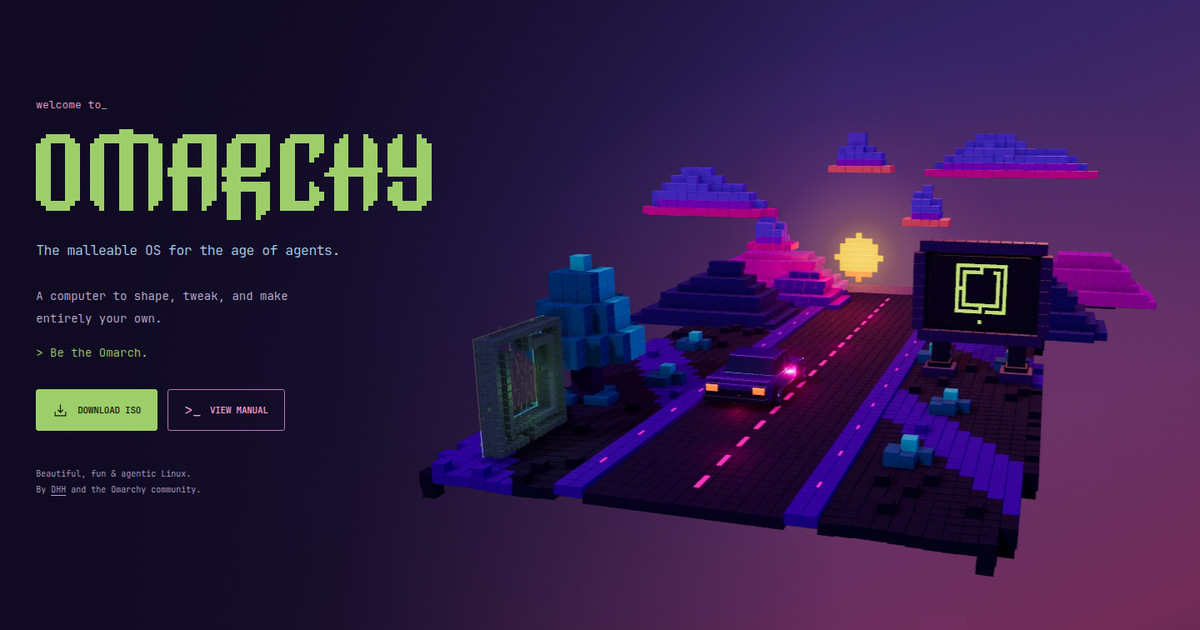
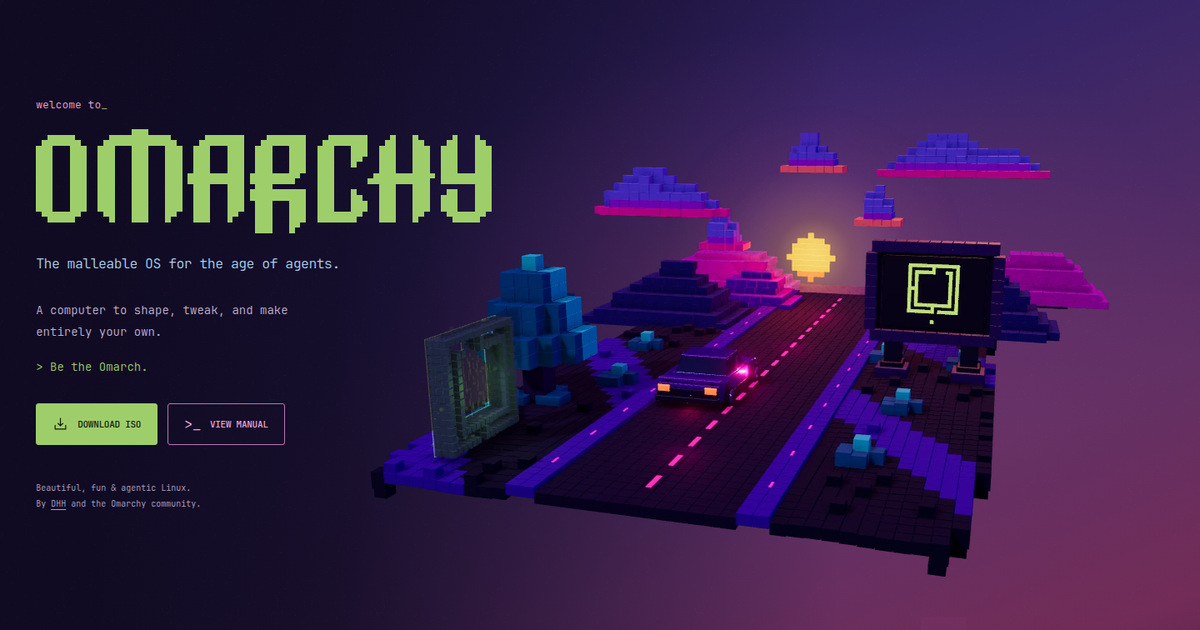
Center the desktop hero and integrate a compact mobile composition

Changed region(s): [[0.3083, 0.2111, 0.9867, 0.9349], [0.0308, 0.181, 0.4317, 0.8143], [0.5242, 0.754, 0.555, 0.7841]]

diff --git a/src/styles/stage-one.css b/src/styles/stage-one.css
@@ -26,6 +26,7 @@ img { display: block; max-width: 100%; }
   --brand-saturation: calc(.12 + var(--world-mix) * .88);
   --media-saturation: calc(.04 + var(--world-mix) * .86);
   --gutter: clamp(24px, 3vw, 60px);
+  --content-width: 1560px;
   --background-night: var(--page-bg);
   --paper: var(--text);
   position: relative;
@@ -53,9 +54,8 @@ img { display: block; max-width: 100%; }
 .landing-hero { position: relative; min-height: 800px; height: min(100svh, 1040px); isolation: isolate; }
 
 .landing-header { position: relative; z-index: 4; min-height: 82px; margin: 0 var(--gutter); display: flex; justify-content: space-between; align-items: center; gap: 24px; }
-.landing-brand { display: inline-flex; align-items: end; gap: 13px; flex-shrink: 0; color: var(--green) !important; }
-.landing-brand img { width: 130px; height: auto; }
-.landing-brand > span { font-size: 16px; line-height: 1; }
+.landing-brand { display: inline-flex; align-items: center; justify-content: center; min-width: 44px; min-height: 44px; flex-shrink: 0; color: var(--green) !important; }
+.landing-brand img { width: 44px; height: auto; }
 .landing-nav { display: flex; align-items: center; gap: clamp(22px, 2.6vw, 44px); }
 .landing-nav a { display: inline-flex; align-items: center; gap: 9px; font-size: 11px; font-weight: 500; letter-spacing: .025em; text-transform: uppercase; color: var(--blue); transition: color 180ms ease; min-height: 44px; }
 .landing-nav a:hover { color: var(--green); }
@@ -63,7 +63,8 @@ img { display: block; max-width: 100%; }
 .landing-nav .landing-nav-download { border: 1px solid color-mix(in srgb, var(--green) 55%, transparent); padding: 0 18px; color: var(--green); gap: 12px; border-radius: 3px; }
 .landing-nav-download:hover { background: color-mix(in srgb, var(--green) 8%, transparent); }
 .landing-main { position: relative; z-index: 2; margin: 0 var(--gutter); padding-top: clamp(78px, 12vh, 134px); pointer-events: none; }
-.landing-copy { width: min(33vw, 500px); pointer-events: auto; opacity: 1; }
+.landing-copy { width: min(38vw, 600px); pointer-events: none; opacity: 1; }
+.landing-copy a { pointer-events: auto; }
 .landing[data-cinematic='true'] .landing-copy { opacity: var(--hero-reveal, 0); }
 .hero-eyebrow { margin: 0 0 19px; color: var(--accent); font-size: 13px; line-height: 1.5; }
 .hero-eyebrow span { color: var(--green); }
@@ -82,7 +83,7 @@ img { display: block; max-width: 100%; }
 .button-secondary > span { font-size: 17px; font-weight: 300; }
 .hero-colophon { margin: 42px 0 0; font-size: 10px; line-height: 1.9; color: var(--quiet); }
 .hero-colophon a { text-decoration: underline; text-underline-offset: 3px; }
-.world-layer { --scene-inset-x: 34; --scene-inset-top: 94; --scene-inset-bottom: 74; position: absolute; z-index: 1; top: 94px; bottom: 74px; left: 34%; right: 0; overflow: hidden; }
+.world-layer { --scene-inset-top: 94; --scene-inset-bottom: 74; position: absolute; z-index: 1; top: 94px; bottom: 74px; left: 26%; right: 0; overflow: hidden; }
 .world-host, .world-canvas { position: absolute; inset: 0; width: 100%; height: 100%; }
 .world-host { pointer-events: none; }
 .hero-baseline { position: absolute; z-index: 3; bottom: 0; left: var(--gutter); right: var(--gutter); height: 68px; display: flex; justify-content: space-between; align-items: center; gap: 24px; border-top: 1px solid var(--line); }
@@ -97,13 +98,13 @@ img { display: block; max-width: 100%; }
 .landing[data-world='quattro'] .world-name--quattro { display: inline; }
 .landing-directory, .landing-watch, .landing-footer { position: relative; padding-inline: var(--gutter); }
 .landing-directory { padding-top: 100px; padding-bottom: 95px; background: transparent; }
-.section-heading { max-width: 1560px; margin-inline: auto; display: grid; grid-template-columns: 1fr 1fr; align-items: end; gap: 0 40px; margin-bottom: 62px; }
+.section-heading { max-width: var(--content-width); margin-inline: auto; display: grid; grid-template-columns: 1fr 1fr; align-items: end; gap: 0 40px; margin-bottom: 62px; }
 .section-kicker { grid-column: 1 / -1; margin: 0 0 30px; color: var(--accent); text-transform: uppercase; letter-spacing: .07em; font-size: 11px; font-weight: 500; }
 .section-kicker > span { margin-right: 14px; color: var(--quiet); }
 .section-heading h2 { margin: 0; font-size: clamp(34px, 3.6vw, 64px); line-height: 1.14; letter-spacing: -.065em; font-weight: 300; }
 .section-heading h2 > span { color: var(--accent); }
 .section-intro { margin: 0 0 5px; justify-self: end; color: var(--muted); font-size: 13px; line-height: 1.9; }
-.directory-grid { max-width: 1560px; margin-inline: auto; display: grid; grid-template-columns: repeat(3, minmax(0, 1fr)); border-top: 1px solid var(--line); }
+.directory-grid { max-width: var(--content-width); margin-inline: auto; display: grid; grid-template-columns: repeat(3, minmax(0, 1fr)); border-top: 1px solid var(--line); }
 .directory-card { min-width: 0; padding: 25px 32px 0; border-right: 1px solid var(--line); }
 .directory-card:first-child { padding-left: 0; }
 .directory-card:last-child { border-right: 0; padding-right: 0; }
@@ -117,7 +118,7 @@ img { display: block; max-width: 100%; }
 .directory-links a > span { color: var(--quiet); transition: transform 160ms ease, color 160ms ease; }
 .directory-links a:hover { color: var(--green); }
 .directory-links a:hover > span { transform: translate(2px, -2px); color: var(--green); }
-.foundation-dispatch { max-width: 1560px; margin: 72px auto 0; padding: 26px 28px; display: flex; align-items: center; gap: 26px; border: 1px solid color-mix(in srgb, var(--line) 65%, transparent); background: color-mix(in srgb, var(--surface) 38%, transparent); transition: border-color 180ms ease; }
+.foundation-dispatch { max-width: var(--content-width); margin: 72px auto 0; padding: 26px 28px; display: flex; align-items: center; gap: 26px; border: 1px solid color-mix(in srgb, var(--line) 65%, transparent); background: color-mix(in srgb, var(--surface) 38%, transparent); transition: border-color 180ms ease; }
 .foundation-dispatch:hover { border-color: var(--accent-soft); }
 .dispatch-mark { display: grid; place-items: center; flex-shrink: 0; width: 50px; height: 50px; }
 .dispatch-mark img { width: 37px; height: 37px; }
@@ -127,7 +128,7 @@ img { display: block; max-width: 100%; }
 .dispatch-action { margin-left: auto; flex-shrink: 0; font-size: 11px; color: var(--muted); }
 .dispatch-action > span { color: var(--accent); margin-left: 20px; font-size: 20px; }
 .landing-watch { padding-top: 95px; padding-bottom: 105px; background: transparent; }
-.watch-grid { max-width: 1560px; margin-inline: auto; display: grid; grid-template-columns: minmax(0, 1.25fr) minmax(0, .85fr); gap: 32px; }
+.watch-grid { max-width: var(--content-width); margin-inline: auto; display: grid; grid-template-columns: minmax(0, 1.25fr) minmax(0, .85fr); gap: 32px; }
 .watch-feature { position: relative; overflow: hidden; min-height: 480px; background: var(--surface); color: var(--text) !important; }
 .watch-feature > img { position: absolute; width: 100%; height: 100%; object-fit: cover; filter: saturate(var(--media-saturation)) brightness(.72); transition: transform 550ms ease; }
 .watch-feature:hover > img { transform: scale(1.025); filter: saturate(var(--media-saturation)) brightness(.86); }
@@ -152,7 +153,7 @@ img { display: block; max-width: 100%; }
 .watch-card i { font-size: 18px; font-style: normal; color: var(--quiet); }
 .watch-card:hover i { color: var(--green); }
 .landing-footer { background: transparent; border-top: 1px solid var(--line); padding-top: 72px; padding-bottom: 28px; }
-.footer-top { max-width: 1560px; margin-inline: auto; display: grid; grid-template-columns: .9fr 2fr; gap: 60px; }
+.footer-top { max-width: var(--content-width); margin-inline: auto; display: grid; grid-template-columns: .9fr 2fr; gap: 60px; }
 .footer-brand { display: block; width: 180px; }
 .footer-brand img { height: auto; }
 .footer-lead > p { margin: 32px 0 25px; font-size: 26px; letter-spacing: -.055em; line-height: 1.35; }
@@ -164,7 +165,7 @@ img { display: block; max-width: 100%; }
 .footer-nav p { margin: 0 0 12px; color: var(--accent); font-size: 10px; font-weight: 500; }
 .footer-nav a { color: var(--muted); font-size: 11px; line-height: 1.6; padding-block: 3px; }
 .footer-nav a:hover { color: var(--green); }
-.footer-bottom { max-width: 1560px; margin: 65px auto 0; display: flex; align-items: end; justify-content: space-between; gap: 24px; border-top: 1px solid var(--line); padding-top: 24px; font-size: 9px; color: var(--quiet); line-height: 1.8; }
+.footer-bottom { max-width: var(--content-width); margin: 65px auto 0; display: flex; align-items: end; justify-content: space-between; gap: 24px; border-top: 1px solid var(--line); padding-top: 24px; font-size: 9px; color: var(--quiet); line-height: 1.8; }
 .footer-bottom p { margin: 0; }
 .footer-bottom p a { text-decoration: underline; text-underline-offset: 3px; }
 .footer-bottom a:hover { color: var(--green); }
@@ -172,10 +173,17 @@ img { display: block; max-width: 100%; }
 .footer-contact span { color: var(--accent); padding-left: 12px; }
 /* The travel occupies the hero, then returns alongside the emerging copy. */
 @media (min-width: 801px) {
+  .landing-header, .landing-main { width: calc(100% - 2 * var(--gutter)); max-width: var(--content-width); margin-inline: auto; }
+  .hero-baseline { width: calc(100% - 2 * var(--gutter)); max-width: var(--content-width); left: 50%; right: auto; transform: translateX(-50%); }
   .world-layer {
+    --scene-rail-width: min(var(--content-width), calc(100% - 2 * var(--gutter)));
+    --scene-rail-fraction: .245;
+    --scene-left: calc((100% - var(--scene-rail-width)) / 2 + var(--scene-rail-width) * var(--scene-rail-fraction));
+    --scene-right: max(0px, calc((100% - var(--scene-rail-width)) / 2 - var(--gutter)));
     top: calc(var(--scene-inset-top) * 1px * var(--hero-reveal, 1));
     bottom: calc(var(--scene-inset-bottom) * 1px * var(--hero-reveal, 1));
-    left: calc(var(--scene-inset-x) * 1% * var(--hero-reveal, 1));
+    left: calc(var(--scene-left) * var(--hero-reveal, 1));
+    right: calc(var(--scene-right) * var(--hero-reveal, 1));
   }
 }
 @media (min-width: 1700px) {
@@ -185,8 +193,8 @@ img { display: block; max-width: 100%; }
 }
 @media (max-width: 1100px) {
   .landing { --gutter: 28px; }
-  .landing-copy { width: 36vw; }
-  .world-layer { --scene-inset-x: 36; }
+  .landing-copy { width: 40vw; }
+  .world-layer { --scene-rail-fraction: .28; }
   .hero-actions { gap: 9px; }
   .hero-actions a { padding-inline: 13px; font-size: 10px; }
   .hero-description { font-size: 13px; }
@@ -202,8 +210,7 @@ img { display: block; max-width: 100%; }
   .landing { --gutter: 22px; }
   .landing-hero { display: flex; flex-direction: column; min-height: 0; height: auto; }
   .landing-header { order: 0; min-height: 74px; gap: 16px; }
-  .landing-brand img { width: 113px; }
-  .landing-brand > span { display: none; }
+  .landing-brand img { width: 36px; }
   .landing-nav { gap: 18px; }
   .landing-nav .landing-nav-secondary { display: none; }
   .landing-nav .landing-nav-download { padding-inline: 12px; gap: 7px; }
@@ -211,15 +218,16 @@ img { display: block; max-width: 100%; }
   .landing-main { order: 1; padding-top: 46px; }
   .landing-copy { width: 100%; max-width: 500px; }
   .hero-eyebrow { margin-bottom: 16px; font-size: 12px; }
-  .hero-wordmark { max-width: 430px; }
-  .hero-descriptor { font-size: 14px; margin-top: 20px; }
+  .landing-copy h1 { width: clamp(200px, 64vw, 360px); min-height: 330px; }
+  .hero-wordmark { width: 100%; }
+  .hero-descriptor { font-size: 14px; margin-top: 0; }
   .hero-description { max-width: 380px; margin-top: 20px; font-size: 13px; }
   .hero-invitation { margin-top: 10px !important; font-size: 13px !important; }
   .hero-actions { margin-top: 22px; }
   .hero-actions a { font-size: 11px; padding-inline: 20px; }
   .hero-colophon { margin-top: 26px; font-size: 10px; }
-  .world-layer { order: 2; position: relative; inset: auto; flex: none; width: 100%; height: 420px; margin-top: 4px; }
-  .hero-baseline { order: 3; position: relative; inset: auto; margin-inline: var(--gutter); height: 64px; flex: none; }
+  .world-layer { position: absolute; top: 110px; right: -28px; bottom: auto; left: auto; width: clamp(280px, 87vw, 480px); height: auto; aspect-ratio: 951 / 732; margin: 0; }
+  .hero-baseline { order: 3; position: relative; inset: auto; margin: 35px var(--gutter) 0; height: 64px; flex: none; }
   .hero-baseline > p { font-size: 9px; }
   .hero-baseline-rule { width: 22px; }
   .landing-directory, .landing-watch { padding-block: 72px; }
@@ -252,19 +260,18 @@ img { display: block; max-width: 100%; }
 @media (max-width: 540px) {
   .landing { --gutter: 20px; }
   .landing-header { min-height: 68px; }
-  .landing-brand img { width: 96px; }
   .landing-nav { gap: 14px; }
   .landing-nav .landing-nav-download { padding-inline: 9px; }
   .landing-nav-download svg { width: 15px; }
   .landing-nav-download span { font-size: 9px; }
   .landing-main { padding-top: 35px; }
-  .hero-wordmark { width: 100%; }
+  .landing-copy h1 { width: clamp(200px, 64vw, 260px); min-height: clamp(190px, 59vw, 230px); }
   .hero-descriptor { font-size: 12px; letter-spacing: -.035em; }
   .hero-description { margin-top: 17px; max-width: 310px; font-size: 12px; line-height: 1.8; }
   .hero-actions { gap: 10px; }
   .hero-actions a { font-size: 10px; padding-inline: 16px; gap: 9px; }
   .hero-colophon { margin-top: 23px; font-size: 9px; }
-  .world-layer { height: 360px; margin-top: 0; }
+  .world-layer { top: 106px; width: clamp(280px, 87vw, 340px); }
   .hero-baseline { height: 59px; }
   .landing-scroll { font-size: 10px; gap: 9px; }
   .hero-baseline > p { font-size: 0; gap: 0; }
@@ -307,14 +314,13 @@ img { display: block; max-width: 100%; }
 }
 @media (max-width: 359px) {
   .landing { --gutter: 16px; }
-  .landing-brand img { width: 85px; }
   .landing-nav { gap: 9px; }
   .landing-nav a { font-size: 9px; }
   .landing-nav-download svg { display: none; }
   .hero-actions { gap: 8px; }
   .hero-actions a { padding-inline: 13px; font-size: 9px; }
   .hero-descriptor { font-size: 11px; }
-  .world-layer { height: 330px; }
+  .world-layer { right: -32px; }
   .watch-card { gap: 11px; }
 }
 @media (prefers-reduced-motion: reduce) {

diff --git a/src/lib/stage-one-world.ts b/src/lib/stage-one-world.ts
@@ -95,7 +95,7 @@ export async function mountStageOneWorld(host: HTMLDivElement, options: MountWor
   let bufferWidth = 0
   let bufferHeight = 0
   let started = false
-  let layout = { width: 1, height: 1, insetX: 0, insetTop: 0, insetBottom: 0, cinematic: false }
+  let layout = { width: 1, height: 1, insetLeft: 0, insetRight: 0, insetTop: 0, insetBottom: 0, cinematic: false }
   let hostOffset = { x: 0, y: 0 }
   const hero = host.closest<HTMLElement>('.landing-hero')
   const landing = host.closest<HTMLElement>('.landing')
@@ -331,7 +331,7 @@ export async function mountStageOneWorld(host: HTMLDivElement, options: MountWor
     if (layout.cinematic) {
       // Match this frame's CSS reveal without waiting for ResizeObserver's
       // following layout pass. The render targets keep their allocated size.
-      width = layout.width * (1 - layout.insetX * state.contentVisibility)
+      width = layout.width - (layout.insetLeft + layout.insetRight) * state.contentVisibility
       height = layout.height - (layout.insetTop + layout.insetBottom) * state.contentVisibility
       camera.aspect = width / height
     }
@@ -380,7 +380,7 @@ export async function mountStageOneWorld(host: HTMLDivElement, options: MountWor
     }
     projectPortal()
     // Cached hero-relative placement follows the same cinematic inset as CSS.
-    const offsetX = layout.cinematic ? layout.width * layout.insetX * state.contentVisibility : hostOffset.x
+    const offsetX = layout.cinematic ? layout.insetLeft * state.contentVisibility : hostOffset.x
     const offsetY = layout.cinematic ? layout.insetTop * state.contentVisibility : hostOffset.y
     projectedSun.copy(sunHalo.position).project(camera)
     projectedPortal.copy(PORTAL).project(camera)
@@ -407,17 +407,38 @@ export async function mountStageOneWorld(host: HTMLDivElement, options: MountWor
     const heroRect = hero?.getBoundingClientRect()
     hostOffset = { x: rect.left - (heroRect?.left ?? rect.left), y: rect.top - (heroRect?.top ?? rect.top) }
     const style = getComputedStyle(host)
+    const cinematic = window.innerWidth > 800 && Boolean(hero)
+    const heroWidth = hero?.clientWidth ?? width
+    const heroHeight = hero?.clientHeight ?? height
+    const resolveInsets = cinematic && (!layout.cinematic || layout.width !== heroWidth || layout.height !== heroHeight)
+    const layer = host.parentElement!
+    // Resolve CSS min()/calc() rails at the settled endpoint once per resize.
+    // Restore the reveal synchronously, before paint; travel frames use only
+    // these cached pixel insets and never measure or resize GPU attachments.
+    const priorReveal = layer.style.getPropertyValue('--hero-reveal')
+    const priorPriority = layer.style.getPropertyPriority('--hero-reveal')
+    let insetLeft = cinematic ? layout.insetLeft : 0
+    let insetRight = cinematic ? layout.insetRight : 0
+    if (resolveInsets) {
+      layer.style.setProperty('--hero-reveal', '1')
+      const layerStyle = getComputedStyle(layer)
+      insetLeft = Number.parseFloat(layerStyle.left)
+      insetRight = Number.parseFloat(layerStyle.right)
+      if (priorReveal) layer.style.setProperty('--hero-reveal', priorReveal, priorPriority)
+      else layer.style.removeProperty('--hero-reveal')
+    }
     layout = {
-      width: hero?.clientWidth ?? width,
-      height: hero?.clientHeight ?? height,
-      insetX: Number(style.getPropertyValue('--scene-inset-x')) / 100,
+      width: heroWidth,
+      height: heroHeight,
+      insetLeft: Number.isFinite(insetLeft) ? insetLeft : 0,
+      insetRight: Number.isFinite(insetRight) ? insetRight : 0,
       insetTop: Number(style.getPropertyValue('--scene-inset-top')),
       insetBottom: Number(style.getPropertyValue('--scene-inset-bottom')),
-      cinematic: window.innerWidth > 800 && Boolean(hero),
+      cinematic,
     }
     // Allocate once for the settled scene's pixel budget, then scale the same
     // canvas during travel. CSS animation must never recreate GPU attachments.
-    const nextWidth = Math.max(1, Math.round(layout.cinematic ? layout.width * (1 - layout.insetX) : width))
+    const nextWidth = Math.max(1, Math.round(layout.cinematic ? layout.width - layout.insetLeft - layout.insetRight : width))
     const nextHeight = Math.max(1, Math.round(layout.cinematic ? layout.height - layout.insetTop - layout.insetBottom : height))
     if (bufferWidth !== nextWidth || bufferHeight !== nextHeight) {
       bufferWidth = nextWidth

diff --git a/src/components/WorldCanvas.tsx b/src/components/WorldCanvas.tsx
@@ -11,6 +11,8 @@ const STILL_PORTALS: Record<WorldId, PortalProjection> = {
   quattro: { x: 0.141648, y: 0.608074, width: 0.124466, height: 0.242105, visible: true },
   bleak: { x: 0.516586, y: 0.441232, width: 0.179535, height: 0.294616, visible: true },
 }
+// Quattro sunHalo projected by the camera used to export the 951 × 732 still.
+const STILL_SUN = { x: 0.572358, y: 0.391169 }
 
 export function WorldCanvas() {
   let host: HTMLDivElement | undefined
@@ -51,6 +53,17 @@ export function WorldCanvas() {
       height: portal.height * imageHeight / height,
       visible: true,
     })
+    const hero = host.closest<HTMLElement>('.landing-hero')
+    const landing = host.closest<HTMLElement>('.landing')
+    if (hero && landing) {
+      const hostBounds = host.getBoundingClientRect()
+      const heroBounds = hero.getBoundingClientRect()
+      const imageLeft = hostBounds.left - heroBounds.left + (width - imageWidth) / 2
+      const imageTop = hostBounds.top - heroBounds.top + (height - imageHeight) / 2
+      landing.style.setProperty('--world-sun-x', `${100 * (imageLeft + STILL_SUN.x * imageWidth) / heroBounds.width}%`)
+      landing.style.setProperty('--world-sun-y', `${100 * (imageTop + STILL_SUN.y * imageHeight) / heroBounds.height}%`)
+      landing.style.setProperty('--world-sun-visibility', String(sampleWorldPresentation(state()).quattroMix))
+    }
   }
 
   const applyState = (next: ExperienceSnapshot) => {
@@ -126,6 +139,8 @@ export function WorldCanvas() {
     const initialization = new AbortController()
     const fallbackResize = new ResizeObserver(projectFallbackPortal)
     if (host) fallbackResize.observe(host)
+    const hero = host?.closest<HTMLElement>('.landing-hero')
+    if (hero) fallbackResize.observe(hero)
     const query = new URLSearchParams(location.search)
     const requestedWorld = import.meta.env.DEV ? query.get('world') : null
     const forcedWorld = requestedWorld === 'bleak' || requestedWorld === 'quattro' ? requestedWorld : undefined
@@ -218,6 +233,9 @@ export function WorldCanvas() {
       landing?.style.removeProperty('--hero-reveal')
       landing?.style.removeProperty('--world-mix')
       landing?.style.removeProperty('--threshold-veil')
+      landing?.style.removeProperty('--world-sun-x')
+      landing?.style.removeProperty('--world-sun-y')
+      landing?.style.removeProperty('--world-sun-visibility')
       landing?.removeAttribute('data-world')
       landing?.removeAttribute('data-cinematic')
       landing?.removeAttribute('data-travel')

diff --git a/src/routes/index.tsx b/src/routes/index.tsx
@@ -43,7 +43,7 @@ function Home() {
       <section class="landing-hero" aria-labelledby="landing-title">
         <WorldCanvas />
         <header class="landing-header">
-          <a class="landing-brand" href="/" aria-label="Omarchy home"><img src={wordmarkUrl} width="4131" height="950" alt="" /><span aria-hidden="true">_</span></a>
+          <a class="landing-brand" href="/" aria-label="Omarchy home"><img src={logoUrl} width="1200" height="1200" alt="" /></a>
           <nav class="landing-nav" aria-label="Primary navigation">
             <a href={manualUrl}>Manual</a>
             <a class="landing-nav-secondary" href="https://github.com/omacom/omarchy">GitHub</a>

diff --git a/plans/world-unification-plan.md b/plans/world-unification-plan.md
@@ -44,7 +44,7 @@ Quattro's psychedelic character should come from complementary light, chromatic 
 5. **Videos.** Continue the field behind the feature and list. Grade the actual loaded imagery by world. Barrens hover improves clarity without restoring saturation; Quattro restores color without making unrelated photographs neon. Keep caption shading local to each image.
 6. **Footer.** Let the remaining reflected light diminish into a quiet ending. A broad shadow contour or restrained edge tint can connect it to the landscape above. Typography, actions and brand treatment still identify the chosen world when the hero is several screens away.
 
-Mobile needs its own placement: the atmospheric focal point follows the scene below the copy, and fewer terrain contours bridge the stacked sections. Use actual section positions and content flow, so a taller heading or translated text cannot move the sun's light relative to the scene.
+The user reviewed the first implementation and requested a closer relationship between title and scene on both desktop and mobile. Desktop gives the title more presence and brings the scene inward. The header, hero copy and baseline share the lower sections' centered 1560px content width; the scene is placed relative to that same width so the composition stays together on wide monitors. Mobile uses a compact identity area: the title sits in the foreground, overlapping the landscape toward its right, while descriptive copy and actions use the full width below. Preserve the scene's 951:732 aspect ratio and a usable portal target. Fewer terrain contours bridge the sections. The header uses the canonical square logo. Use actual section positions and content flow, so a taller heading cannot move the sun's light relative to the scene.
 
 **How the layers fit together**
 
@@ -120,3 +120,15 @@ File ownership stays explicit: page agent owns CSS and route decoration; motion 
 - Compare native-device frame traces with the current baseline. Keep shader compilation and render-target resizing out of travel, produce no offscreen GPU draws, and stop atmosphere updates once settled. Report software-renderer evidence separately.
 
 Implementation references: individual media grading can use interpolated CSS filter functions ([MDN filter](https://developer.mozilla.org/en-US/docs/Web/CSS/Reference/Properties/filter)). Transparent decorative masks are available for bounded layer edges ([MDN mask-image](https://developer.mozilla.org/en-US/docs/Web/CSS/Reference/Properties/mask-image)). The reduced-motion presentation must respond to the user's system preference ([MDN prefers-reduced-motion](https://developer.mozilla.org/en-US/docs/Web/CSS/Reference/At-rules/@media/prefers-reduced-motion)). These support the implementation approach; the composition and budgets above are project-specific recommendations.
+
+**Implementation review**
+
+The continuous-world pass was merged into local `master` as `0dd8a08`. The following responsive refinement retains the square header logo, a larger desktop wordmark, shared centered content rails, and the overlapping mobile title/scene. The fallback sun now uses the exported scene's actual projection and follows the same contain-fit geometry as the portal.
+
+- Both worlds were visually checked at 320, 390, 540, 768 and 1440px. Portal center hit tests passed, the smallest target was 44×52px, and no horizontal overflow was found. Desktop checks at 1920 and 2560px confirmed matching header, main, baseline, directory and footer bounds: 180–1740 and 500–2060px respectively.
+- The live 390px renderer matched the still's portal projection within 0.02px. Both travel directions completed with readable copy, no residual inert state and no scroll movement. At 1920px, travel preserved the canvas allocation and performed no temporary layout-style mutations; settled insets are resolved only when the hero dimensions change.
+- Crawler and JavaScript-disabled browser contexts received HTTP 200, visible hero copy and all 56 links without requesting the renderer or car model. Fallback first arrival, both switches and a remembered-Quattro reload passed.
+- Controller, preference and shared presentation checks pass. Selected text/background contrast samples passed their targets in both worlds and an intermediate blend; this was a targeted review, not a complete accessibility audit.
+- Earlier runtime instrumentation found no new shader compilation or texture allocation during a journey. A journey completed while the hero was offscreen with no GPU draws, preserving the reader's scroll and link focus.
+
+Linux browser checks used software WebGL2. They establish behavior and allocation stability, but do not establish native-device frame rate. Native GPU performance and a complete sequence of transition-frame art reviews remain separate visual validation work.

diff --git a/art/README.md b/art/README.md
@@ -72,8 +72,9 @@ The component maps its portal control to each image and accounts for
 
 `public/art/pitch-social.jpg` is a 1200×630 crop of the verified Quattro hero,
 composed from the same transparent scene export over the continuous page
-atmosphere. Its source is `output/playwright/continuous-quattro-social.png`
-at 1440×900, with the portal control hidden; the crop excludes the header
+atmosphere. Its source is `output/playwright/centered-quattro-social.png`
+at 1440×900, with the approved tighter composition, centered desktop rails,
+and aligned sunset. The portal control is hidden; the crop excludes the header
 and baseline (source rectangle 0,74–1440,830).
 Set `VITE_SITE_URL` to the intended public preview origin before building so
 social metadata can use an absolute image URL.
